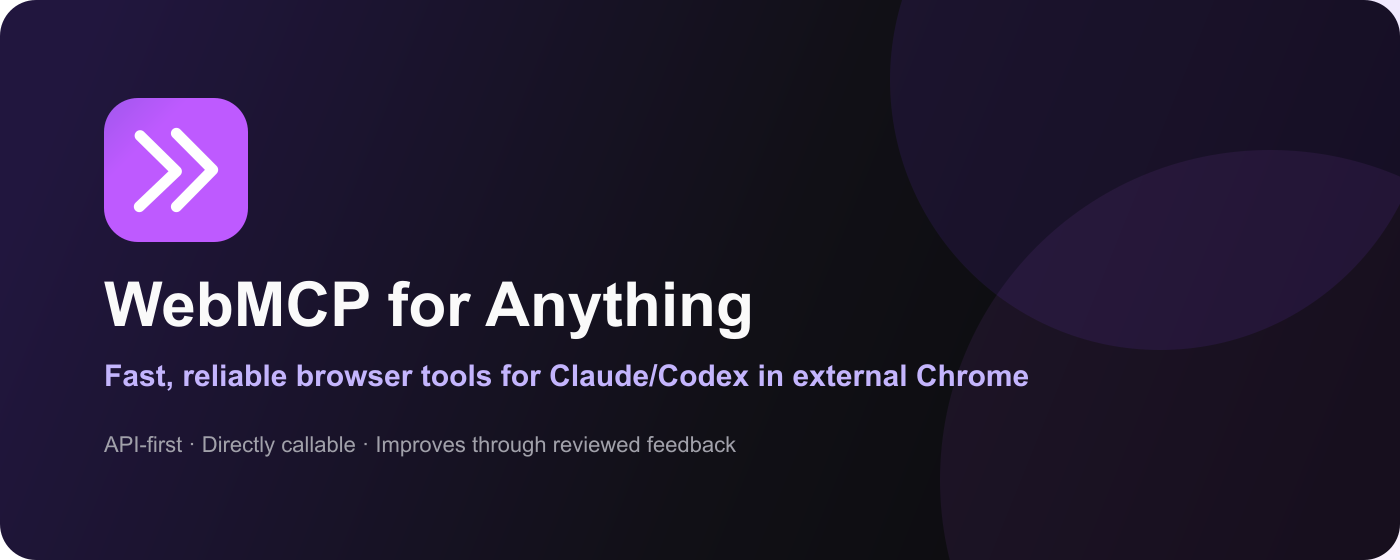
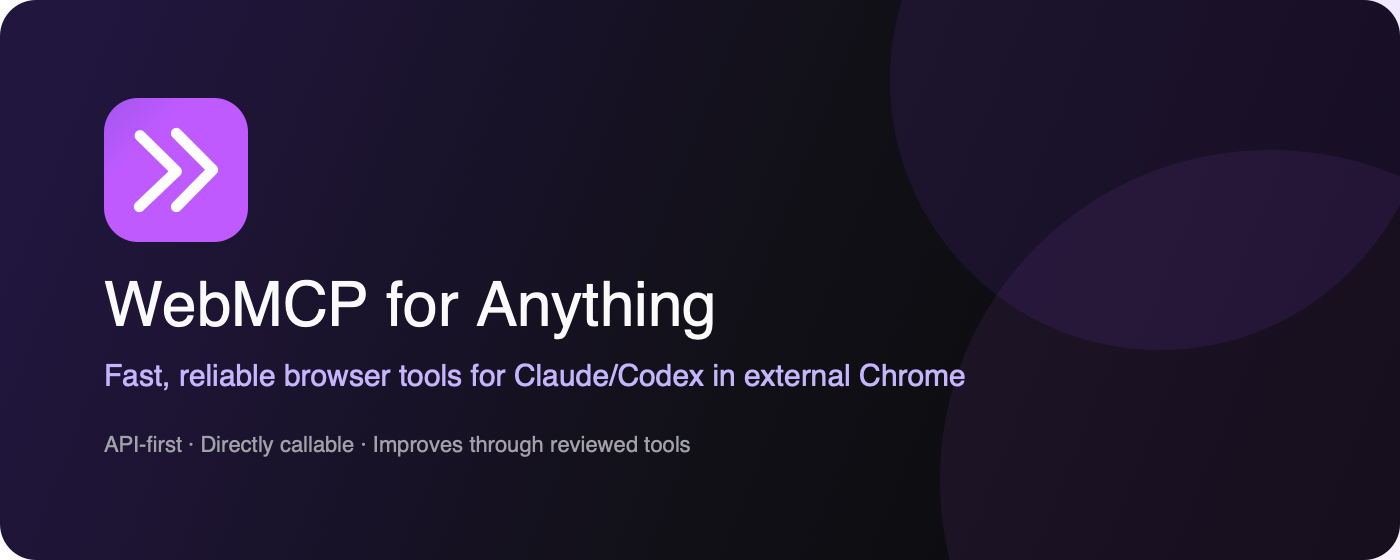
Remove WebMCP feedback guidance

Changed region(s): [[0.0614, 0.4857, 0.5529, 0.6071], [0.0921, 0.6375, 0.7371, 0.6982], [0.0921, 0.7589, 0.5221, 0.8196]]

diff --git a/README.md b/README.md
@@ -1,6 +1,6 @@
 # Pluno WebMCP for Anything
 
-A Chrome extension and Claude/Codex integration that automatically loads origin-specific, directly callable browser tools in external Chrome, then feeds privacy-safe improvements and general feedback back to Pluno.
+A Chrome extension and Claude/Codex integration that automatically loads origin-specific, directly callable browser tools in external Chrome and feeds privacy-safe tool improvements back to Pluno.
 
 ## Connect Claude Code
 
@@ -43,7 +43,7 @@ The extension cannot run in built-in agent browsers that do not support Chrome e
 
 ## Privacy and security
 
-The bearer token stays in extension storage and is never exposed to page JavaScript. To select an origin-specific catalog, the extension sends only the current site origin—never its path, query string, or page content—to Pluno. The extension injects inert tool definitions through Chrome's scripting API; remote tool code is evaluated and cached only on the first direct invocation. Tool proposals and feedback must never contain personal data, credentials, cookies, authorization headers, or private raw payloads.
+The bearer token stays in extension storage and is never exposed to page JavaScript. To select an origin-specific catalog, the extension sends only the current site origin—never its path, query string, or page content—to Pluno. The extension injects inert tool definitions through Chrome's scripting API; remote tool code is evaluated and cached only on the first direct invocation. Tool proposals must never contain personal data, credentials, cookies, authorization headers, or private raw payloads.
 
 ## License
 

diff --git a/skills/webmcp-for-anything/SKILL.md b/skills/webmcp-for-anything/SKILL.md
@@ -45,6 +45,4 @@ const tool = await registry.addTool({
 
 Use `addTool()` for both new tools and full replacements; a matching name replaces the existing registry entry. The `code` value must be a self-contained async function string that runs in page context. Verify the added tool by calling `await tool.execute(input)` with representative input before finishing the task.
 
-Use `send_feedback` instead when something about the extension, plugin, onboarding, injected-tool experience, or workflow is not working well, or when the user requests another change that is not a concrete origin tool-definition update. Include the relevant page URL when one exists, explain the observed behavior and desired outcome, and do not send duplicate feedback for the same issue during one task.
-
-NEVER include personal data, credentials, cookies, authorization headers, private raw payloads, or user-specific values in any tool definition or feedback. Generalize and sanitize everything.
+NEVER include personal data, credentials, cookies, authorization headers, private raw payloads, or user-specific values in any tool definition. Generalize and sanitize everything.
